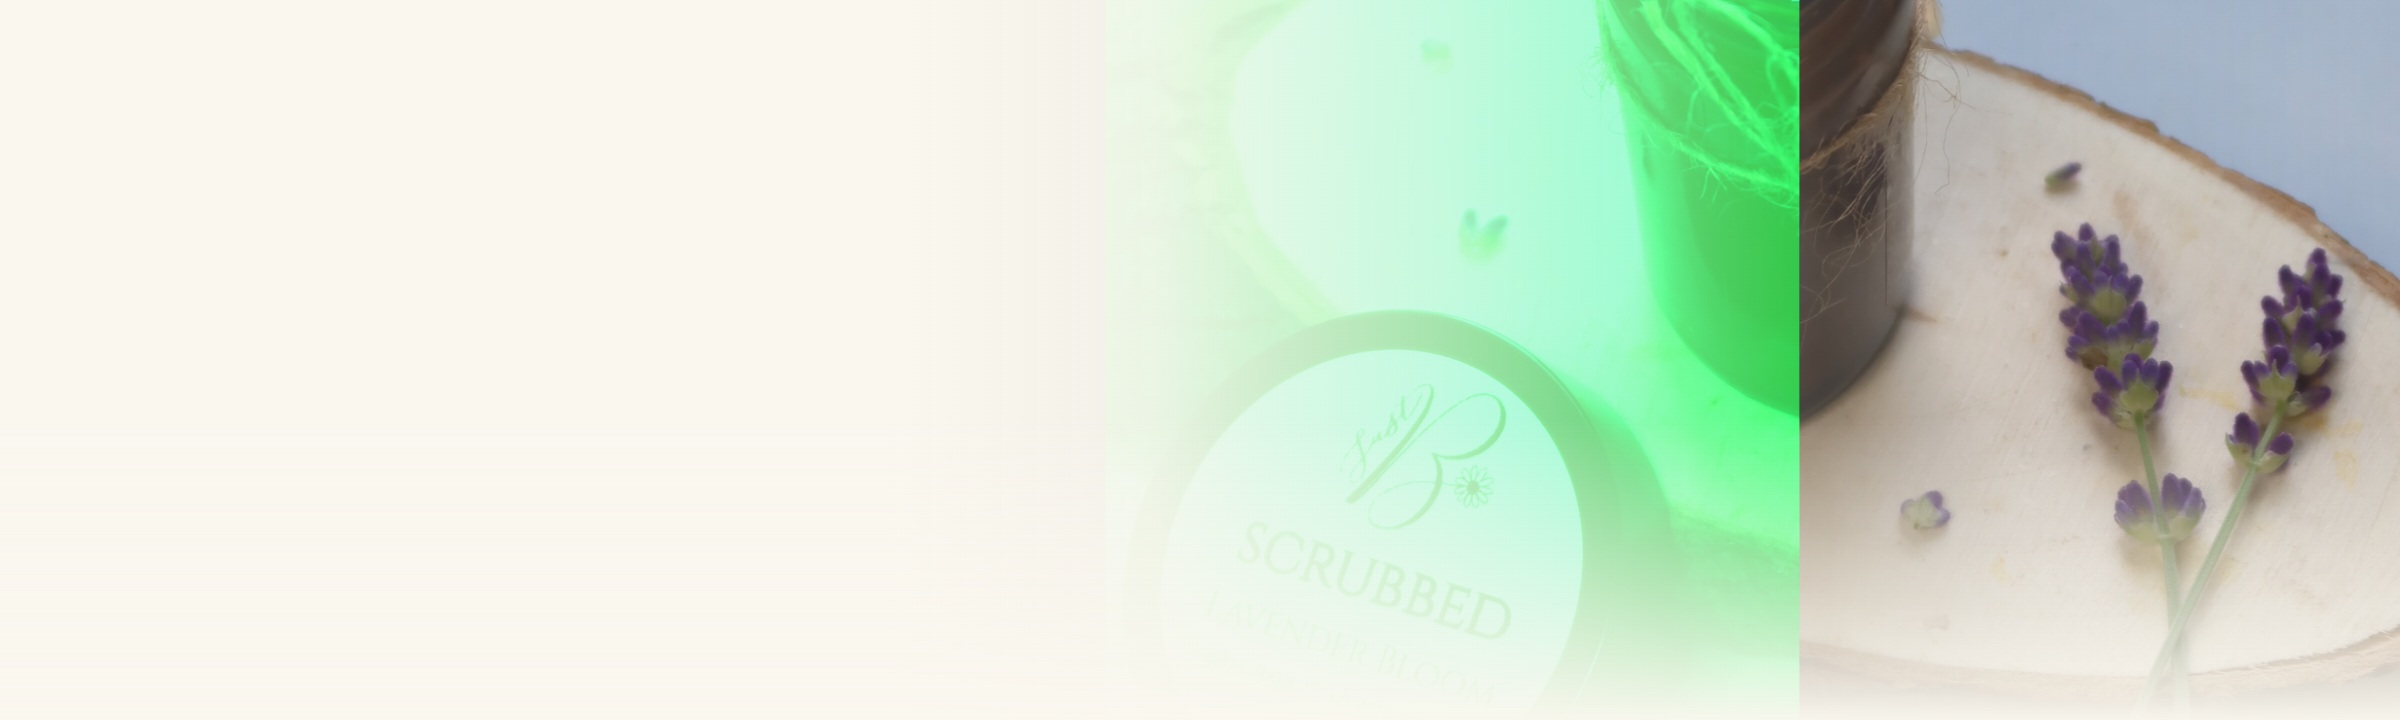
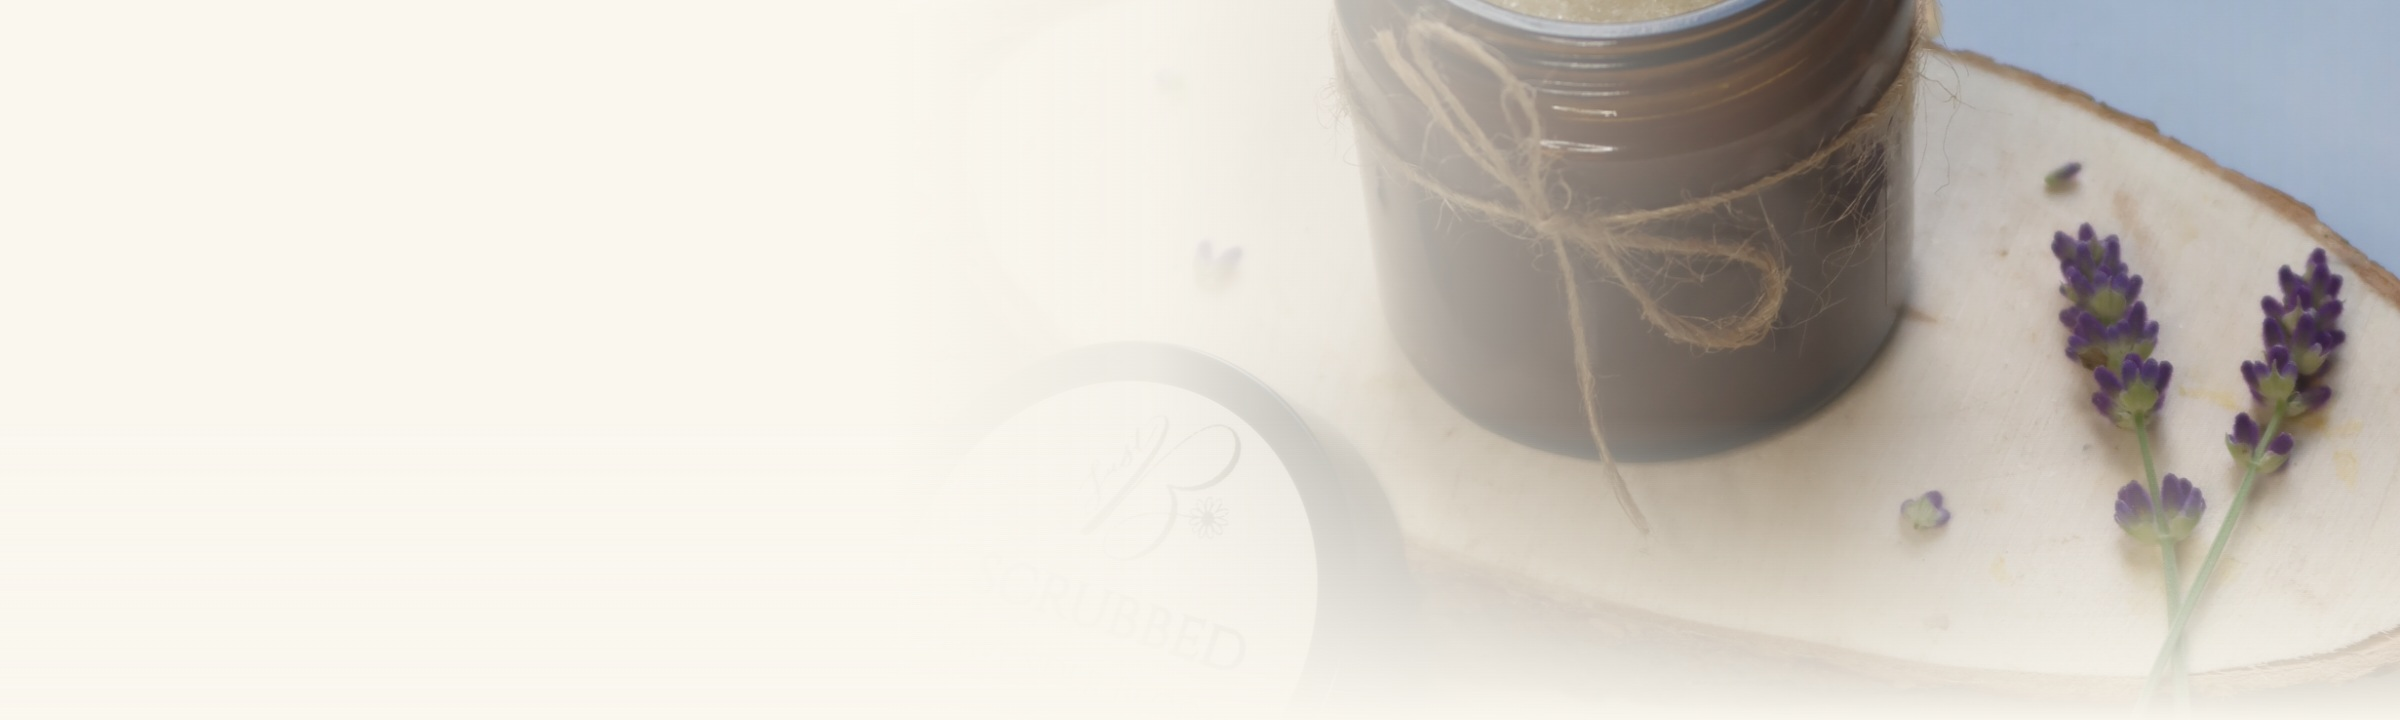
Fix checkout focus and continuous featured carousel

Changed region(s): [[0.5, 0.0, 0.75, 0.9472]]

diff --git a/script.js b/script.js
@@ -1597,28 +1597,61 @@ function renderCatalogues() {
     const catalogue = grid.dataset.catalog;
     let matches = PRODUCTS;
     if (category) matches = PRODUCTS.filter(product => product.category === category);
-    if (catalogue === "featured") matches = [...PRODUCTS].sort(() => Math.random() - .5);
+    if (catalogue === "featured") matches = featuredProducts();
     renderProductGrid(grid, matches);
     if (catalogue === "featured") initializeFeaturedCarousel(grid);
   });
 }
 
+function featuredProducts() {
+  return PRODUCTS
+    .filter(product => product.active !== false && product.availabilityStatus !== "preorder" && product.availabilityStatus !== "unavailable" && product.stock !== 0)
+    .sort(() => Math.random() - .5);
+}
+
 function initializeFeaturedCarousel(grid) {
+  if (typeof grid._featuredCarouselCleanup === "function") grid._featuredCarouselCleanup();
   grid.classList.add("featured-carousel");
   if (window.matchMedia("(prefers-reduced-motion: reduce)").matches) return;
+  const originals = [...grid.querySelectorAll(":scope > .product-card")];
+  if (originals.length < 2 || grid.scrollWidth <= grid.clientWidth) return;
+  const clones = originals.map(card => {
+    const clone = card.cloneNode(true);
+    clone.setAttribute("aria-hidden", "true");
+    clone.querySelectorAll("a, button, input, select, textarea").forEach(control => control.setAttribute("tabindex", "-1"));
+    grid.append(clone);
+    return clone;
+  });
   let paused = false;
-  const advance = () => {
-    if (paused || grid.scrollWidth <= grid.clientWidth) return;
-    const firstCard = grid.querySelector(".product-card");
-    const step = (firstCard?.getBoundingClientRect().width || 280) + 16;
-    const atEnd = grid.scrollLeft + grid.clientWidth >= grid.scrollWidth - step / 2;
-    grid.scrollTo({ left: atEnd ? 0 : grid.scrollLeft + step, behavior: "smooth" });
+  let frame = 0;
+  let previousTime = 0;
+  let position = grid.scrollLeft;
+  const tick = time => {
+    if (!paused && previousTime) {
+      const elapsed = Math.min(time - previousTime, 40);
+      position += elapsed * .018;
+      const loopWidth = clones[0].offsetLeft - originals[0].offsetLeft;
+      if (loopWidth > 0 && position >= loopWidth) position -= loopWidth;
+      grid.scrollLeft = position;
+    }
+    previousTime = time;
+    frame = requestAnimationFrame(tick);
   };
-  grid.addEventListener("mouseenter", () => { paused = true; });
-  grid.addEventListener("mouseleave", () => { paused = false; });
-  grid.addEventListener("focusin", () => { paused = true; });
-  grid.addEventListener("focusout", () => { paused = false; });
-  window.setInterval(advance, 4800);
+  const pause = () => { paused = true; };
+  const resume = () => { paused = false; position = grid.scrollLeft; previousTime = performance.now(); };
+  const handleVisibility = () => { if (document.hidden) pause(); else resume(); };
+  grid.addEventListener("focusin", pause);
+  grid.addEventListener("focusout", resume);
+  document.addEventListener("visibilitychange", handleVisibility);
+  frame = requestAnimationFrame(tick);
+  grid._featuredCarouselCleanup = () => {
+    cancelAnimationFrame(frame);
+    grid.removeEventListener("focusin", pause);
+    grid.removeEventListener("focusout", resume);
+    document.removeEventListener("visibilitychange", handleVisibility);
+    clones.forEach(clone => clone.remove());
+    delete grid._featuredCarouselCleanup;
+  };
 }
 
 function orderItemMarkup(item) {
@@ -2238,6 +2271,21 @@ function checkoutEmailUrl(details) {
   return `mailto:${STORE.orderEmail}?subject=${encodeURIComponent(subject)}&body=${encodeURIComponent(buildOrderSummary(details))}`;
 }
 
+function focusFirstInvalidCheckoutField(form) {
+  const field = [...form.elements].find(control => control.willValidate && !control.checkValidity() && control.type !== "hidden");
+  if (!(field instanceof HTMLElement)) return;
+  const headerClearance = window.innerWidth <= 900 ? 150 : 105;
+  const targetTop = Math.max(0, field.getBoundingClientRect().top + window.scrollY - headerClearance);
+  field.focus({ preventScroll: true });
+  window.scrollTo({ top: targetTop, behavior: "smooth" });
+  window.setTimeout(() => {
+    field.focus({ preventScroll: true });
+    if (field instanceof HTMLInputElement && typeof field.setSelectionRange === "function") {
+      try { field.setSelectionRange(field.value.length, field.value.length); } catch (_) {}
+    }
+  }, 360);
+}
+
 function syncCheckoutState() {
   const checkout = document.querySelector("[data-checkout]");
   if (!checkout) return;
@@ -2287,15 +2335,30 @@ function initializeCheckout() {
     if (event.key === "Enter" && !event.target.closest("textarea, button")) event.preventDefault();
   });
 
+  let invalidFocusQueued = false;
+  form.addEventListener("invalid", () => {
+    form.classList.add("was-validated");
+    if (invalidFocusQueued) return;
+    invalidFocusQueued = true;
+    requestAnimationFrame(() => {
+      updateValidation(true);
+      focusFirstInvalidCheckoutField(form);
+      const invalidStatus = form.querySelector("[data-checkout-status]");
+      if (invalidStatus) {
+        invalidStatus.textContent = "Please correct the highlighted information before sending your request.";
+        invalidStatus.classList.add("is-error");
+      }
+      invalidFocusQueued = false;
+    });
+  }, true);
+
   form.addEventListener("submit", async event => {
     event.preventDefault();
     if (!event.submitter?.matches(".checkout-submit")) return;
     form.classList.add("was-validated");
     if (!form.reportValidity() || !orderList.length) {
       updateValidation(true);
-      const firstInvalid = form.querySelector(":invalid");
-      firstInvalid?.focus({ preventScroll: true });
-      firstInvalid?.scrollIntoView({ behavior: "auto", block: "center" });
+      focusFirstInvalidCheckoutField(form);
       const invalidStatus = form.querySelector("[data-checkout-status]");
       if (invalidStatus) {
         invalidStatus.textContent = "Please correct the highlighted information before sending your request.";
@@ -2489,6 +2552,10 @@ async function loadInventory() {
       product.active = record.active !== false;
       product.availabilityStatus = record.availabilityStatus || (record.active === false ? "unavailable" : "available");
       product.availableDate = record.availableDate || null;
+    });
+    document.querySelectorAll('[data-catalog="featured"]').forEach(grid => {
+      renderProductGrid(grid, featuredProducts());
+      initializeFeaturedCarousel(grid);
     });
     PRODUCTS.forEach(updatePreorderArtwork);
     document.querySelectorAll(".product-card").forEach(card => {

diff --git a/styles.css b/styles.css
@@ -131,8 +131,9 @@ p, h1, h2, h3 { overflow-wrap: break-word; }
 .circle-arrow { position: absolute; top: 18px; right: 18px; z-index: 3; width: 31px; height: 31px; display: grid; place-items: center; border: 1px solid rgba(16,44,39,.45); border-radius: 50%; background: rgba(255,253,248,.9); transition: background .2s, color .2s; }
 .category-card:hover .circle-arrow { background: var(--ink); color: var(--white); }
 .featured-section { max-width: none; background: var(--cream); }
-.product-grid.featured-carousel { display: flex; gap: 16px; overflow-x: auto; padding: 2px 0 18px; scroll-behavior: smooth; scroll-snap-type: x proximity; scrollbar-width: thin; scrollbar-color: var(--brown) transparent; }
-.product-grid.featured-carousel .product-card { flex: 0 0 calc((100% - 48px) / 4); scroll-snap-align: start; }
+.product-grid.featured-carousel { display: flex; gap: 16px; overflow: hidden; padding: 2px 0 0; scroll-behavior: auto; scroll-snap-type: none; scrollbar-width: none; }
+.product-grid.featured-carousel::-webkit-scrollbar { display: none; }
+.product-grid.featured-carousel .product-card { flex: 0 0 calc((100% - 48px) / 4); scroll-snap-align: none; }
 
 .product-grid { display: grid; grid-template-columns: repeat(4, minmax(0, 1fr)); gap: 38px 16px; }
 .product-grid:has(.product-card:only-child) { grid-template-columns: minmax(280px, 360px); justify-content: center; }
@@ -307,8 +308,9 @@ p, h1, h2, h3 { overflow-wrap: break-word; }
 .catalog-empty h2 { margin: 0 0 10px; font-family: var(--serif); font-size: 38px; font-weight: 500; }
 .catalog-empty p { margin: 0; color: var(--muted); }
 
-.category-hero { position: relative; margin-bottom: 32px; overflow: hidden; background: #faf7ef var(--category-hero) center / cover no-repeat; }
-.category-hero::before, .category-hero::after { content: none; }
+.category-hero { position: relative; margin-bottom: 0; overflow: hidden; background: #faf7ef var(--category-hero) center / cover no-repeat; }
+.category-hero::before { content: none; }
+.category-hero::after { content: ""; position: absolute; right: 0; bottom: -1px; left: 0; z-index: 0; height: 112px; pointer-events: none; background: linear-gradient(180deg, rgba(250,247,239,0), #faf7ef 94%); }
 .category-hero-grid { position: relative; z-index: 1; min-height: 475px; display: grid; grid-template-columns: minmax(0, 760px); align-items: center; }
 .category-hero .breadcrumbs { margin-bottom: 50px; }
 .category-hero h1 { max-width: 900px; }
